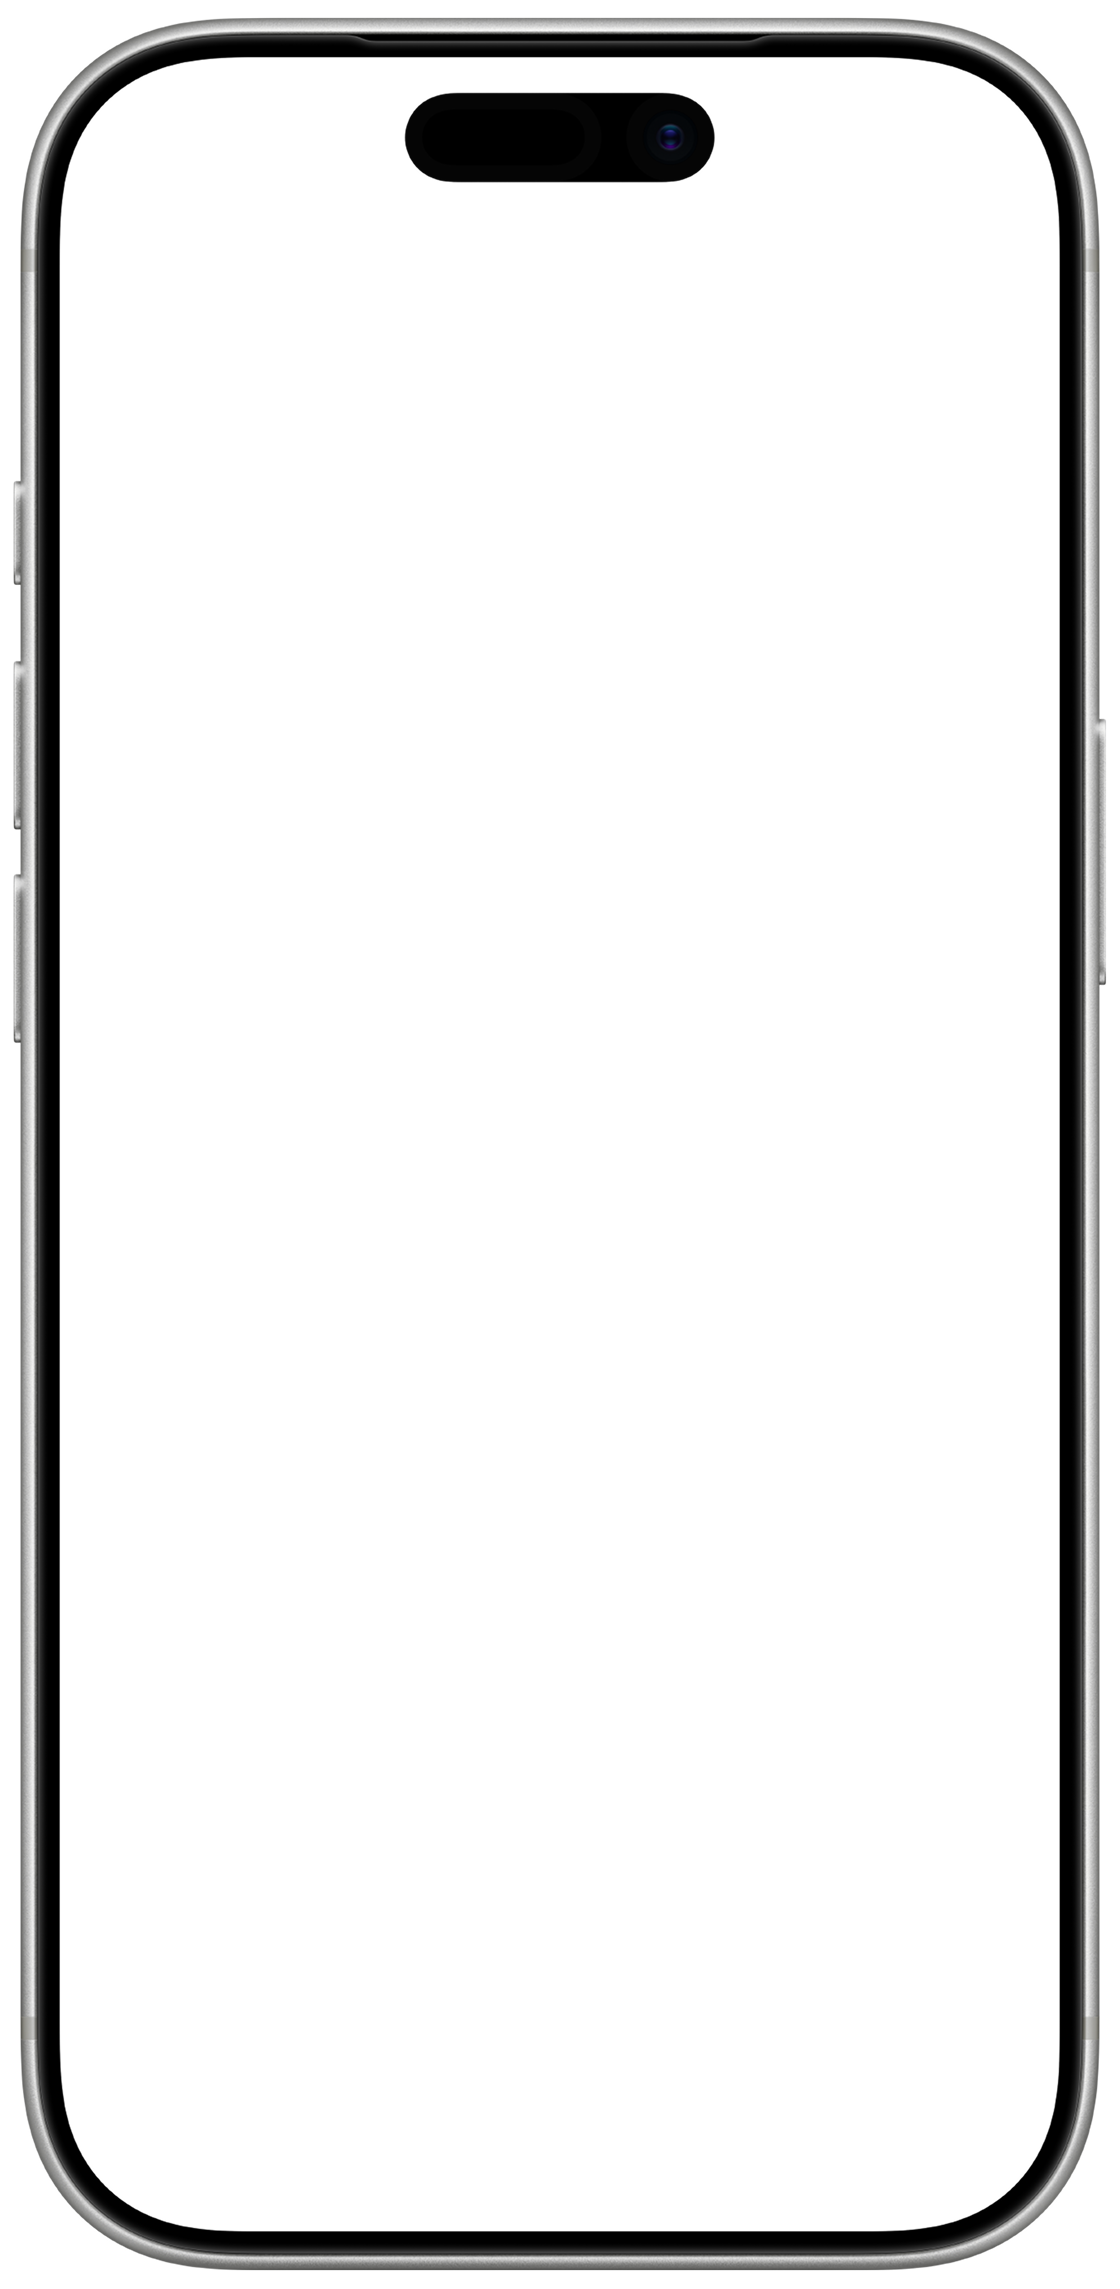
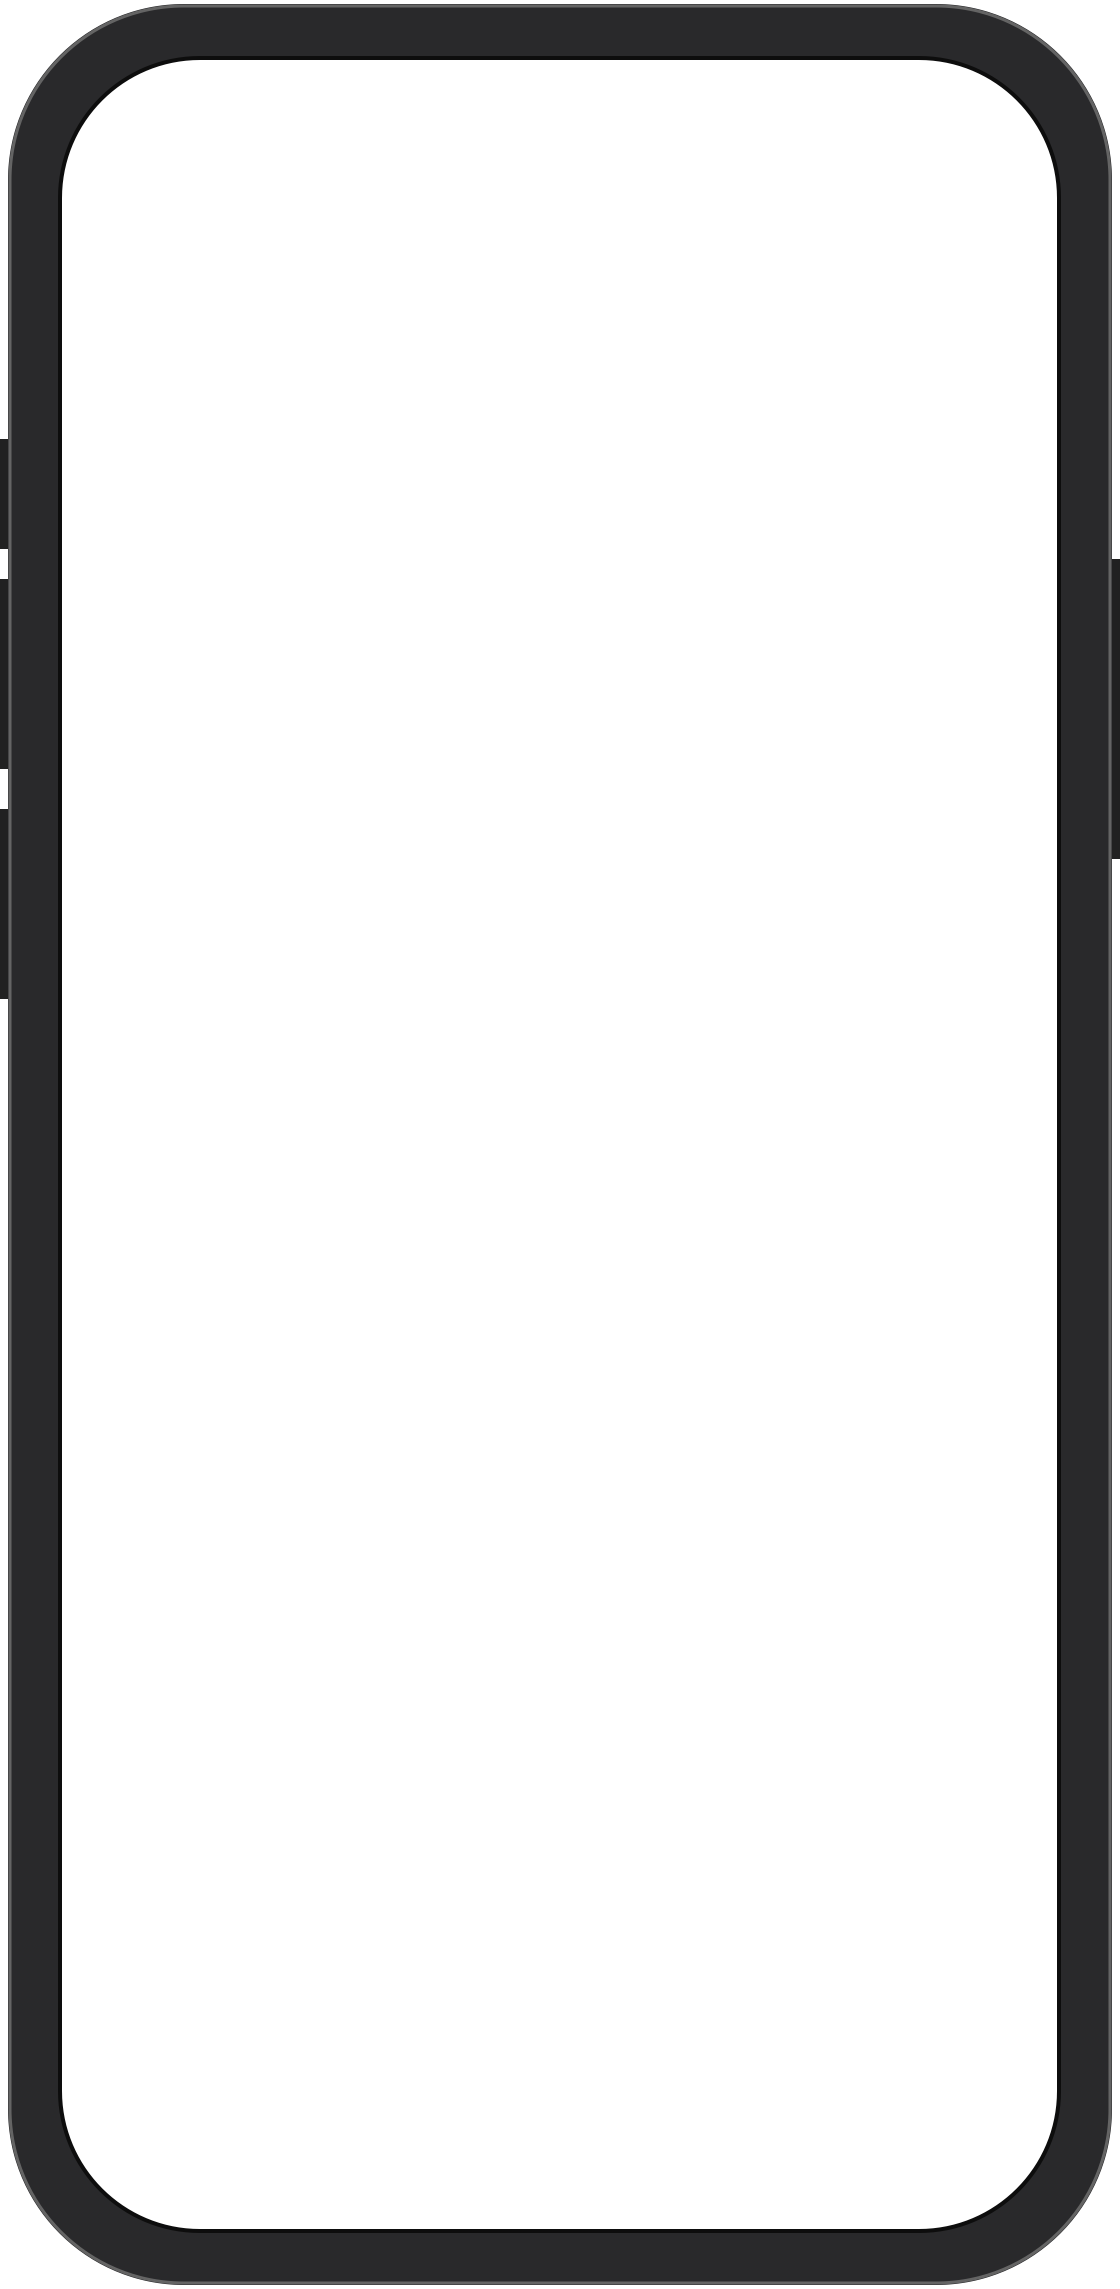
Public release packaging for GitHub
- README rewritten for public audience: what/why, curl+git+gh install, prompting guide
- install.sh one-liner installer, MIT LICENSE
- Bundled bezel replaced with a clean-room generated neutral frame (same geometry,
  same default SCREEN_RECT) — safe to redistribute; FRAME_PNG documented for
  substituting official Apple bezels
- docs/ example frames rendered by the pipeline itself

Changed region(s): [[0.0, 0.0, 1.0, 1.0]]

diff --git a/README.md b/README.md
@@ -1,50 +1,100 @@
 # product-film
 
-An AVFoundation-based product-film pipeline for Claude Code — turns screen recordings of any product (iOS app, website, desktop app, Figma prototype) into a scored, verified promo film. No ffmpeg, no video editor: every stage is a plain Swift script driven from the terminal.
+**A Claude Code agent skill that turns screen recordings into scored, verified product films.**
 
-Version 1.0.0.
+Point Claude at raw screen recordings of your product — an iOS app, a website, a desktop app, or a Figma prototype — and this skill gives it the full production pipeline: measuring real interaction times, splicing beats, compositing into a device mockup (mobile) or Screen-Studio-style full-bleed (desktop) with camera moves and click cues, stitching acts with title cards, synthesizing a license-free soundtrack, and auditing the final cut scene-by-scene against the approved script.
+
+Built on AVFoundation only. No ffmpeg, no video editor, no cloud rendering — every stage is a plain Swift script.
+
+| Mobile path | Programmatic cards |
+|---|---|
+| ![mobile](docs/example-mobile.png) | ![card](docs/example-card.png) |
+
+## Why it exists
+
+Agent-cut product films usually fail the same ways: trims made from *intended* timings instead of measured ones, cuts landing mid-animation, reveals with no visible click, zooms focused on the wrong thing, watermarked stock audio, and cards carrying last project's copy. Every rule in this skill is a codified rejection from real film deliveries — the playbook is the accumulated taste, and the pipeline's verification gates (frame-scan before trimming, full-res card reads, a mandatory gap audit delivered with every render) are what keep quality stable across sessions.
 
 ## Requirements
 
-- macOS with Xcode Command Line Tools (`swift` on PATH). For simulator work set `DEVELOPER_DIR=/Applications/Xcode.app/Contents/Developer`.
-- The companion **screen-recording** skill for the capture stage (staging, take protocol, and `scripts/autoplan.py` for camera-plan derivation; autoplan needs `python3`).
-- Optional: the Figma MCP server, only for the Figma fallback card path.
+- macOS with Xcode Command Line Tools (`swift` on PATH)
+- [Claude Code](https://claude.com/claude-code)
+- For iOS Simulator capture: Xcode (`DEVELOPER_DIR=/Applications/Xcode.app/Contents/Developer`)
 
-## Installation
+## Install
 
-Copy this directory to `~/.claude/skills/product-film/` (personal, all projects) or `<repo>/.claude/skills/product-film/` (project-scoped). Nothing else to install — the iPhone mockup ships in `assets/` and every script resolves it relative to itself.
-
-## Quick start
-
-1. **Script first.** Write the six-block film script (`references/writing-the-script.md` has the template): vibe, frame, scene list with interaction+payoff+data, words, brand, sound. Get it approved before rendering anything.
-2. **Capture** takes with the screen-recording skill, into a durable project directory.
-3. From that directory, run the pipeline (contracts in `references/playbook.md`):
+**curl:**
 
 ```bash
-SKILL=~/.claude/skills/product-film/scripts
-swift $SKILL/scan.swift take1.mp4 sheet.png            # eyeball the take
-swift $SKILL/diffscan.swift take1.mp4                  # measure real interaction times (diffscan2 for desktop)
-swift $SKILL/condense.swift take1.mp4 scene1.mp4 "12.7,15.2;25.7,28.2,1.5"
-swift $SKILL/composite2.swift scene1.mp4 scene1-comp.mp4 0 8 "0 .5 .5 1.02 0; 3 .27 .8 1.4 0"
-FONT_FILE=Brand.ttf ACCENTS=FFEE51,0EA5E9 swift $SKILL/title-card-template.swift card1.mov 2.4 "FAST CAPTURE"
-cp $SKILL/stitch-template.swift .                      # template: edit clips + transitions in-file
-swift stitch-template.swift                            # -> film.mp4
-cp $SKILL/score-template.swift .                       # template: edit chords/BPM/automation in-file
-swift score-template.swift                             # -> score.m4a
-swift $SKILL/mux.swift film.mp4 score.m4a "Film v1.mp4"
+curl -fsSL https://raw.githubusercontent.com/Malik1942/product-film/main/install.sh | bash
 ```
 
-4. **Verify frames and run the gap audit** (`references/gap-audit.md`) — both are mandatory; deliver the audit with the film.
+**git:**
 
-## Layout
+```bash
+git clone https://github.com/Malik1942/product-film.git ~/.claude/skills/product-film
+```
 
-- `SKILL.md` — triggers, pipeline order, non-negotiables, symptom table
-- `references/playbook.md` — stage contracts, script arguments, iron laws, camera grammar
-- `references/writing-the-script.md` — the six-block script contract + template
-- `references/gap-audit.md` — the mandatory per-render audit format
-- `scripts/` — utilities (argv-driven, run as-is) and templates (copy per project, edit in-file)
-- `assets/iphone-mockup.png` — default device frame for the mobile path (`FRAME_PNG`/`SCREEN_RECT` env to substitute any other)
+**gh:**
 
-## Asset note
+```bash
+gh repo clone Malik1942/product-film ~/.claude/skills/product-film
+```
 
-The bundled iPhone mockup is a device-bezel image of unverified origin, used here as a personal working asset. It is trivially replaceable (`FRAME_PNG=/path.png SCREEN_RECT=x,y,w,h`); verify redistribution rights or substitute your own bezel render before publishing this skill beyond personal use. No fonts are bundled — brand fonts are supplied per project via `FONT_FILE`.
+Installing to `~/.claude/skills/` makes the skill available in every project; use `<repo>/.claude/skills/product-film` instead to scope it to one repo. Claude Code discovers it automatically — no registration step.
+
+## How to prompt
+
+The skill triggers on any product/promo-video work. Natural prompts:
+
+```text
+Make a 60-second promo film for my app. Raw recordings are in ~/Desktop/MyAppTakes.
+```
+
+```text
+Film my website at example.com into a Screen-Studio-style demo — desktop grammar, arrow cursor.
+```
+
+```text
+The page turn in scene 2 feels laggy and the zoom focuses on the wrong thing. Fix both.
+```
+
+Style direction works at two levels, and the skill knows the difference:
+
+- **Vibe-level** — cascades to everything (edit rhythm, camera energy, cards, score):
+  `"Make it calm and premium, like a sundown ambient track."` / `"Playful and energetic."`
+- **Scoped** — touches only what you named:
+  `"Make the logo gold on the end card."` / `"Slow the title card entrance."`
+
+Two things to expect from the workflow:
+
+1. **It will ask for a script before rendering.** Films are built from a six-block script (vibe, frame, scene list with interaction + payoff + data, words, brand, sound). If your brief is vague, Claude hands you a fill-in template first — that's by design; the approval gate is what prevents expensive wrong-direction renders.
+2. **Every delivery includes a gap audit.** Each scene of the actual rendered file is graded against the script (MET / PARTIAL / CONTRADICTED / MISSING / DEVIATES) from extracted frames, with editing gaps fixed before delivery and capture gaps named plainly.
+
+## What's inside
+
+| Path | What |
+|---|---|
+| `SKILL.md` | Triggers, pipeline order, non-negotiables, symptom→fix table |
+| `references/playbook.md` | Stage contracts, script arguments, camera grammar, iron laws |
+| `references/writing-the-script.md` | The six-block film-script contract + fill-in template |
+| `references/gap-audit.md` | The mandatory per-render audit format |
+| `scripts/` | The pipeline: scan, diffscan/diffscan2, condense, composite2, stitch, score ×2, mux, title/end cards |
+| `assets/iphone-mockup.png` | Neutral device frame (generated, MIT-licensed) |
+
+Scripts come in two classes: **utilities** run as-is with explicit argv (`swift scripts/mux.swift film.mp4 score.m4a out.mp4`), **templates** (stitch, score) are copied into your project and edited in-file — the clip order and chord tables *are* the interface. No script contains machine-specific or `/tmp` paths.
+
+## Device frames
+
+The bundled frame is a clean generated bezel (safe to redistribute). For a photorealistic device, drop in any bezel image with a transparent screen cutout — e.g. Apple's official product bezels from [Apple Design Resources](https://developer.apple.com/design/resources/) (check Apple's usage terms):
+
+```bash
+FRAME_PNG=/path/to/bezel.png SCREEN_RECT=x,y,w,h swift scripts/composite2.swift ...
+```
+
+## Companion skill
+
+Capture (simulator staging, take protocol, auto-zoom derivation) lives in a separate `screen-recording` skill in the author's setup. This repo stands alone for editing/compositing/scoring — record takes with whatever you have (`xcrun simctl io recordVideo`, `screencapture -v`), then measure with `diffscan` and cut from measured times.
+
+## License
+
+MIT — see [LICENSE](LICENSE). Brand fonts are never bundled; supply yours per project via `FONT_FILE`.
